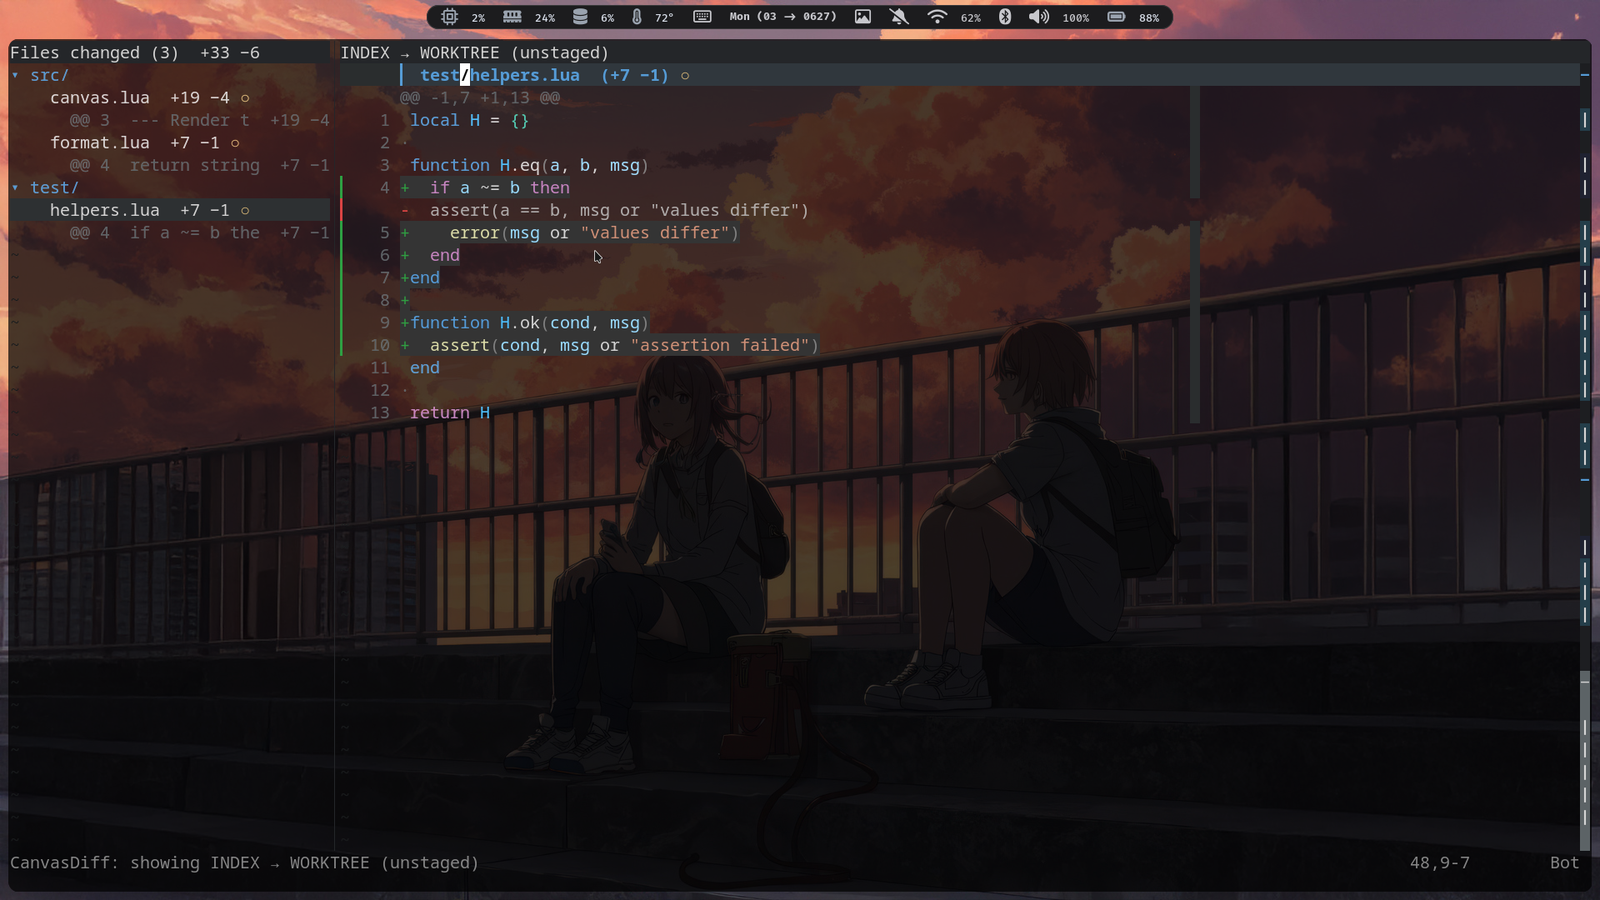
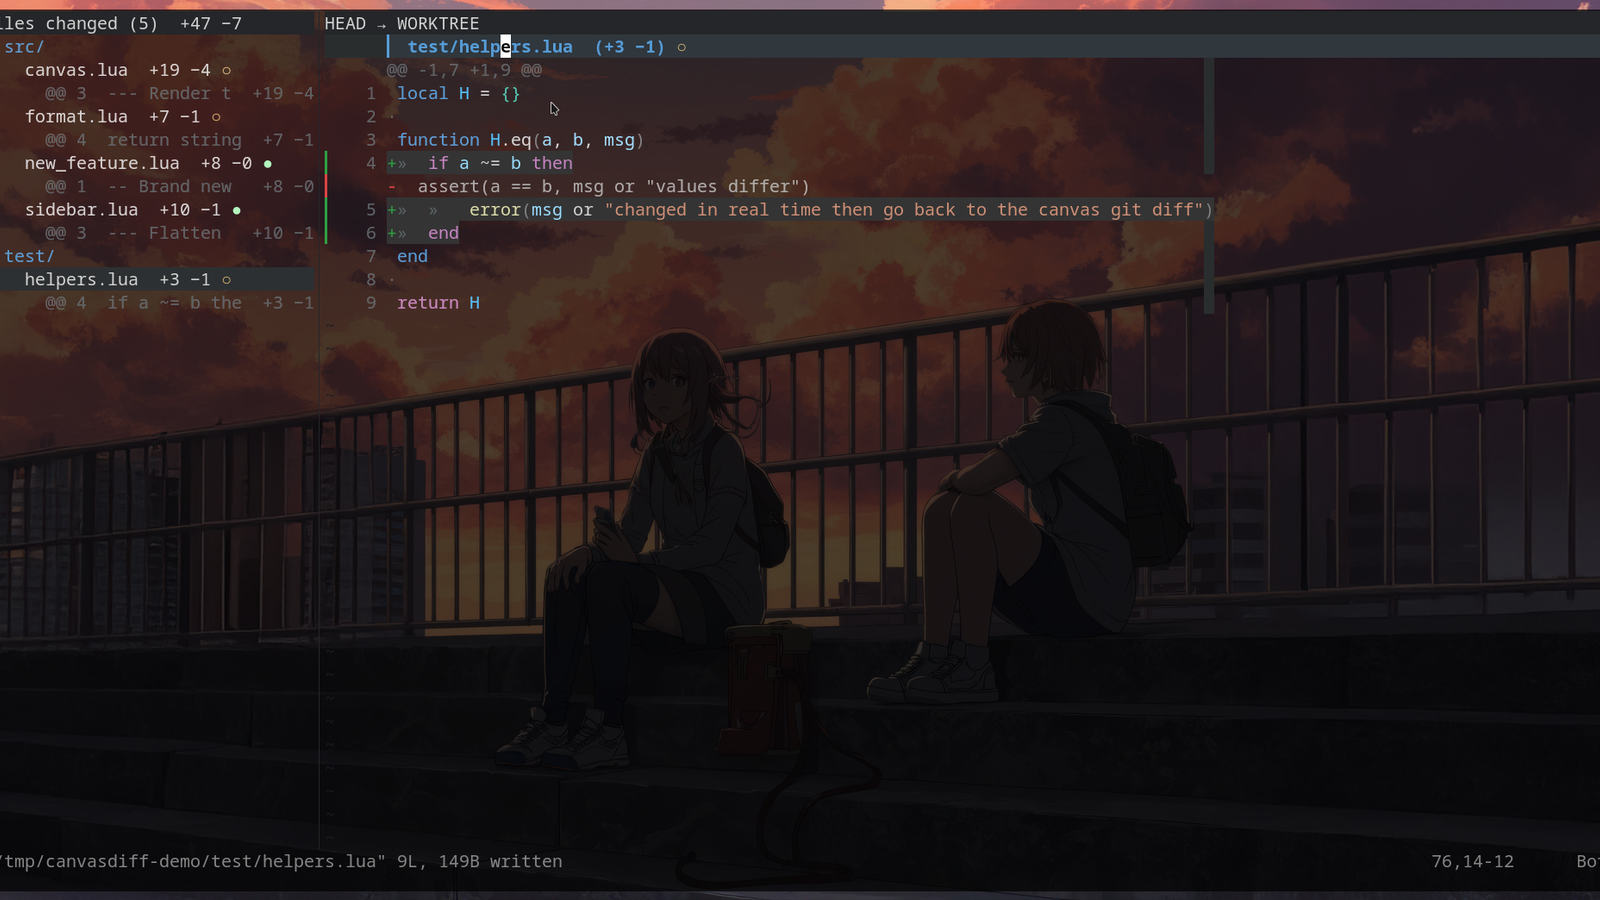
media update

diff --git a/README.md b/README.md
@@ -9,13 +9,34 @@ unsaved edits intact; edit it, then jump back to the same place in the review.
 CanvasDiff is **pre-alpha**. Its behavior is tested, but the public surface may
 still change before the first stable release.
 
-![CanvasDiff: whole Git changeset in one buffer](media/hero.png)
+![Live update: canvas reflects a just-saved edit](media/hero.png)
 
-### Demo
+### Screenshots
 
-One still for the product shape. The GIF below plays inline — no download.
+**1. Live edit — before / after**  
+Edit the real file, save, and the canvas refreshes in place.
 
-![CanvasDiff walkthrough](media/walkthrough.gif)
+![Live edit before and after](media/01-live-edit.png)
+
+**2. Comparison mode**  
+Read-only revision ranges without checking out branches.
+
+![Comparison mode](media/02-compare.png)
+
+**3. Sidebar fold & jump**  
+Fold directories/files, then Enter to land the canvas on a row.
+
+![Sidebar fold and jump](media/03-sidebar.png)
+
+**4. Lens states**  
+All · unstaged · staged — same review, different filters.
+
+![Lens states](media/04-lenses.png)
+
+**5. Key menus**  
+Help cheatsheet, compare picker, and checkout.
+
+![Key menus](media/05-keys.png)
 
 ## Features
 
